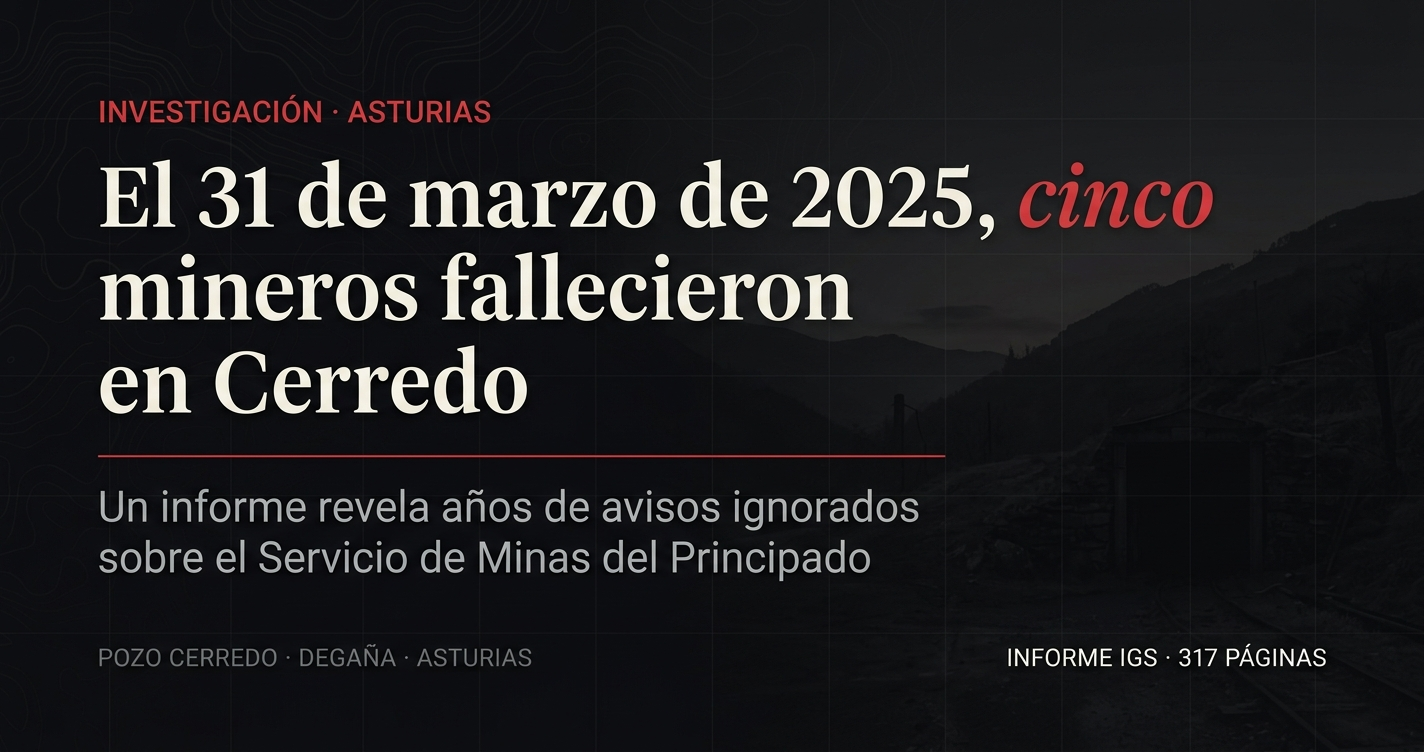
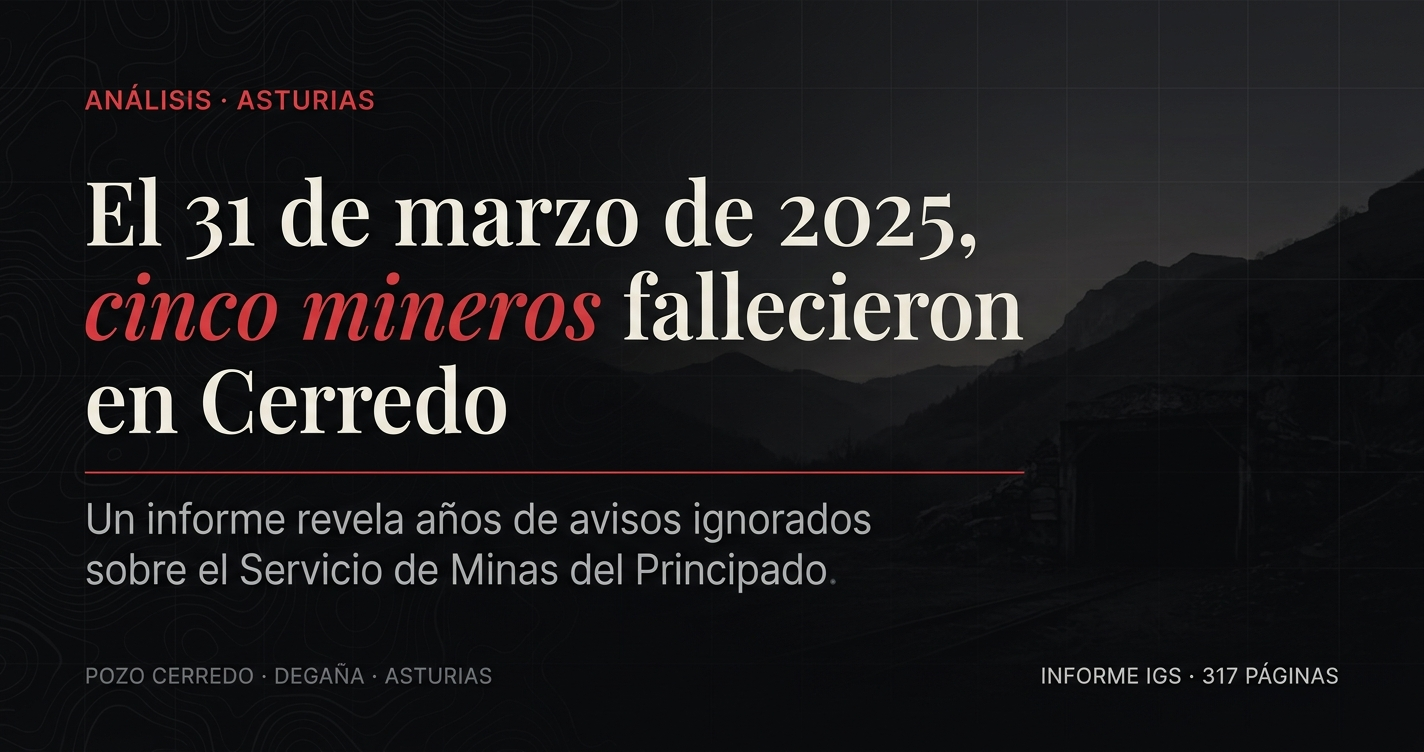
Cambia "Investigación" por "Análisis" en hero, OG image y article:section
La pieza es un análisis del informe IGS, no una investigación
periodística propia.

diff --git a/informe-caso-cerredo/index.html b/informe-caso-cerredo/index.html
@@ -20,7 +20,7 @@
 <meta property="og:image:height" content="752">
 <meta property="og:image:alt" content="El 31 de marzo de 2025, cinco mineros fallecieron en Cerredo. Tarjeta editorial sobre el informe del Servicio de Minas del Principado.">
 <meta property="article:author" content="David Fernández Sancho">
-<meta property="article:section" content="Investigación">
+<meta property="article:section" content="Análisis">
 <meta property="article:published_time" content="2026-05-07">
 
 <!-- Twitter Card -->
@@ -823,7 +823,7 @@
   <div class="hero-map" id="hero-map" aria-hidden="true"></div>
   <div class="hero-veil" aria-hidden="true"></div>
   <div class="wrap">
-    <span class="kicker">Investigación · Asturias</span>
+    <span class="kicker">Análisis · Asturias</span>
     <h1 class="lede">El 31 de marzo de 2025, <span class="num">cinco</span> mineros fallecieron en Cerredo</h1>
     <p class="standfirst">Un pozo donde los problemas venían de mucho antes: avisos ignorados, transmisiones de derechos opacas y un servicio de inspección que se quedó sin medios para vigilar lo que ocurría bajo tierra en Cerredo.</p>
     <div class="meta">